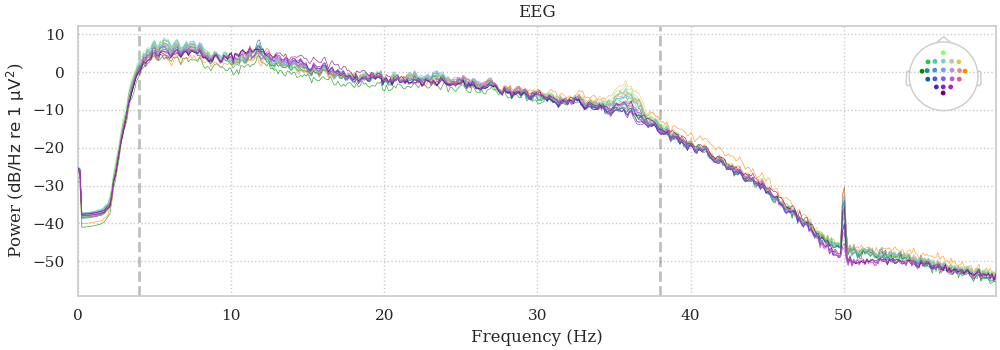
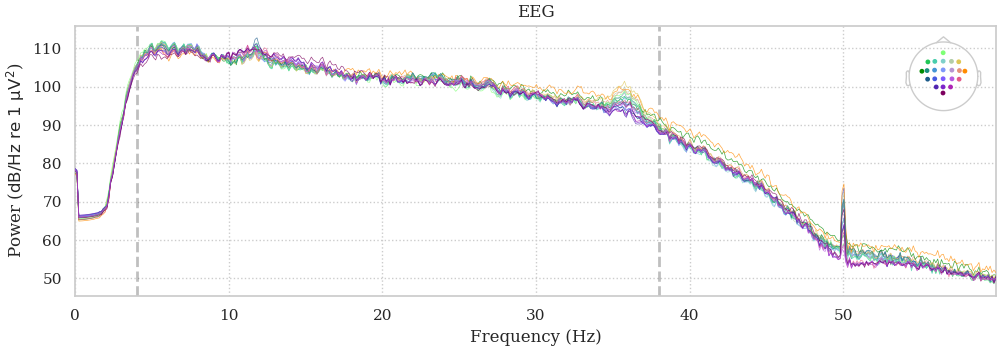
Feat: Final update with normalization and new plots

diff --git a/src/data_loader.py b/src/data_loader.py
@@ -68,6 +68,11 @@ def preprocess_data(raw: mne.io.Raw):
     # 3. Filter
     raw.filter(l_freq=config.LOW_CUTOFF, h_freq=config.HIGH_CUTOFF, method='iir', verbose=False)
     
+    # 4. Normalization
+    # We will apply "Z-score normalization" (subtract mean, divide by std) to each channel independently.
+    logger.info("Step 4: Applying Channel-wise Normalization (Z-score)...")
+    raw.apply_function(lambda x: (x - x.mean()) / x.std())
+    
     return raw
 
 def load_and_process_subject(subject_id: int):
